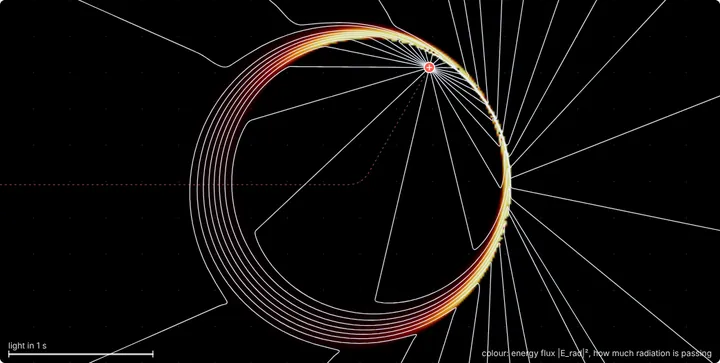
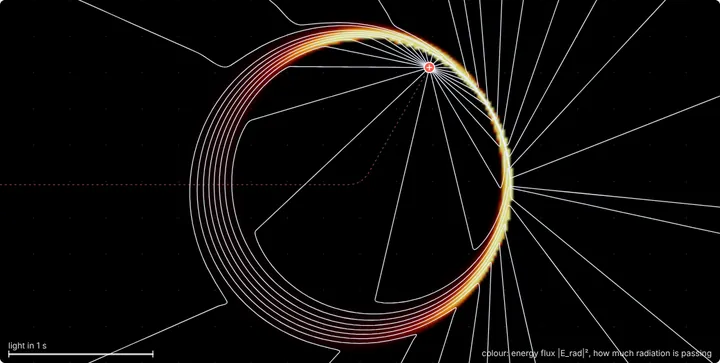
Radiation: the energy flux without stray dark cells, and typed values kept below c
- The energy-flux colour (synchrotron, deflection, nothing along the axis) sampled |E_rad|^2 at
  each cell's centre.  A synchrotron's flash changes sign within a cell, and the zero between
  its lobes, a line far thinner than a cell, showed as black dots scattered along the bright
  spiral wherever a centre fell near it (they were in the experiment's picture too).  The
  flux is now sampled at the cells' corners and averaged over each cell's four, which is what
  a cell should show; the signed field is still sampled at the centres.  Pictures of the
  three flux experiments remade.
- A preset's speed typed past the slider's end was taken as it was: beta = 1.5 gave a charge
  faster than light, gamma = -, P/P_Larmor = 0.64 and field lines that stopped at once.  Speeds
  are now kept at or below 0.98 c, times and lengths positive, c between 0.05 and 1000 units/s,
  the number of lines at most 200 (a typed 1e9 would have hung the page), from the sliders and
  from the address alike.
- Experiment 1: the charge stops 10 units from where it began (it did not coast 10 units).

Claude-Session: https://claude.ai/code/session_01Uf588EmEoW67UxQKckEGyR

diff --git a/radiation/app.js b/radiation/app.js
@@ -146,32 +146,47 @@ function viewHalfDiagonal() { return Math.hypot(view.W, view.H) / 2 / view.s; }
 // ------------------------------------------------------------------ the field picture
 
 const mapCanvas = document.createElement('canvas');
-let mapCell = 4, mapMs = [], mapVals = new Float32Array(0), mapImg = null;
+let mapCell = 4, mapMs = [], mapVals = new Float32Array(0), mapImg = null, samples = new Float32Array(0);
 
-/** The radiation field on a coarse grid over the view. */
+/**
+ * The radiation field on a coarse grid over the view.  The signed field is sampled at the centre
+ * of each cell.  The energy flux is sampled at the cells' corners and averaged over each cell's
+ * four: a sharp pulse (a synchrotron's flash) changes sign within a cell, and the zero of
+ * |E_rad|² between its lobes, a line much thinner than a cell, would otherwise show as scattered
+ * dark cells wherever a centre happened to fall near it.
+ */
 function computeMap(t) {
   const gw = Math.max(8, Math.ceil(view.W / mapCell)), gh = Math.max(8, Math.ceil(view.H / mapCell));
   if (mapVals.length !== gw * gh) { mapVals = new Float32Array(gw * gh); mapImg = new ImageData(gw, gh); mapCanvas.width = gw; mapCanvas.height = gh; }
+  const flux = state.map === 'flux', sw = flux ? gw + 1 : gw, sh = flux ? gh + 1 : gh, off = flux ? 0 : 0.5;
+  const S = flux ? (samples.length === sw * sh ? samples : (samples = new Float32Array(sw * sh))) : mapVals;
   const [x0, x1, y0, y1] = viewBox(), dx = (x1 - x0) / gw, dy = (y1 - y0) / gh;
   let rowGuess = NaN;
   const t0 = performance.now();
   // If the charge never accelerated in all its stored past, there is no radiation anywhere.
   const quiet = traj.activity(traj.tStart, t)[0] <= 1e-6 * state.c * state.c;
-  if (quiet) mapVals.fill(0);
+  if (quiet) S.fill(0);
   // The retarded time to within a time in which light goes a tenth of a pixel (the field lines
-  // ask for far more); each guess carried on from the cell before (to first order).
+  // ask for far more); each guess carried on from the point before (to first order).
   mapLW.c = state.c; mapLW.atol = 0.1 / (view.s * state.c);
   const f = mapLW;
-  for (let j = 0; j < (quiet ? 0 : gh); j++) {
-    const y = y1 - (j + 0.5) * dy;
+  for (let j = 0; j < (quiet ? 0 : sh); j++) {
+    const y = y1 - (j + off) * dy;
     let guess = rowGuess;
-    for (let i = 0; i < gw; i++) {
-      const x = x0 + (i + 0.5) * dx;
+    for (let i = 0; i < sw; i++) {
+      const x = x0 + (i + off) * dx;
       f.field(x, y, 0, t, guess);
       guess = f.predict(x + dx, y);
       if (i === 0) rowGuess = f.predict(x, y - dy);
       // E_rad is perpendicular to n: in the plane, E_rad = E⊥ (ẑ × n).  E⊥ > 0 is anticlockwise.
-      mapVals[j * gw + i] = f.eay * f.nx - f.eax * f.ny;
+      S[j * sw + i] = f.eay * f.nx - f.eax * f.ny;
+    }
+  }
+  // The flux: the root mean square of the four corners (the colour squares it again).
+  if (flux) {
+    for (let j = 0; j < gh; j++) for (let i = 0; i < gw; i++) {
+      const a = S[j * sw + i], b = S[j * sw + i + 1], c = S[(j + 1) * sw + i], e = S[(j + 1) * sw + i + 1];
+      mapVals[j * gw + i] = Math.sqrt(0.25 * (a * a + b * b + c * c + e * e));
     }
   }
   // Keep this under about 10 ms a frame: coarser cells if it is slow, finer if fast.
@@ -187,7 +202,7 @@ function computeMap(t) {
   for (let o = 0; o < gw * gh; o++) {
     const v = mapVals[o] * gain;
     let r, g, b;
-    if (state.map === 'flux') {
+    if (flux) {
       const a = Math.tanh(v * v);
       r = 255 * Math.min(1, 1.6 * a); g = 255 * Math.max(0, Math.min(1, 1.6 * a - 0.55)); b = 255 * Math.max(0, 2.2 * a - 1.6);
       r *= 0.85; g *= 0.85; b *= 0.85;
@@ -672,6 +687,11 @@ for (const id of ORDER) {
   presetButtons[id] = b;
 }
 
+/** A typed value may go past a slider's end, but not where the motion makes no sense: a speed
+ *  at or over c, a time or a length of zero or less. */
+const LIMITS = { beta: [0, BETA_MAX], tau: [0.005, 20], dist: [0.1, 200], rest: [0, 60], period: [0.05, 60], radius: [0.05, 100], angle: [0, 360], alpha: [0.01, 100] };
+function clampParam(k, v) { const L = LIMITS[k]; return L ? Math.max(L[0], Math.min(L[1], v)) : v; }
+
 let shownParams;
 function showParams(id) {
   shownParams = id;
@@ -680,11 +700,16 @@ function showParams(id) {
   $('#typed').hidden = id !== 'typed';
   if (!id || id === 'typed') return;
   for (const [k, p] of Object.entries(PRESETS[id].params)) {
-    box.append(slider({
+    const s = slider({
       label: p.label, min: p.min, max: p.max, log: p.log, value: values[id][k], title: p.title,
       // A one-shot motion starts again with the new value; a steady one carries on.
-      onInput: (v) => { values[id][k] = v; startMotion(id, { restart: motion.end !== undefined }); },
-    }));
+      onInput: (v) => {
+        values[id][k] = clampParam(k, v);
+        if (values[id][k] !== v) s.value = values[id][k];
+        startMotion(id, { restart: motion.end !== undefined });
+      },
+    });
+    box.append(s);
   }
 }
 
@@ -734,7 +759,7 @@ const cSlider = slider({
   label: 'c (units/s)', min: 1, max: 30, log: true, value: state.c,
   title: 'The speed of light, in units per second (the view is 20 units across its shorter side)',
   onInput: (v) => {
-    state.c = v;
+    state.c = v = Math.max(0.05, Math.min(1000, v));
     if (mode !== 'hand') startMotion(state.preset);
     else {
       // Slower light might now be slower than the charge: start again from rest.
@@ -754,7 +779,7 @@ const linesSeg = segmented([
   { value: 'off', label: 'None' },
 ], state.lines, (v) => { state.lines = v; dirty = true; saveHash(); }, { label: 'Field lines' });
 $('#lines-box').append(linesSeg);
-const countSlider = slider({ label: 'lines', min: 4, max: 64, step: 1, value: state.count, onInput: (v) => { state.count = Math.round(v); dirty = true; saveHash(); } });
+const countSlider = slider({ label: 'lines', min: 4, max: 64, step: 1, value: state.count, onInput: (v) => { state.count = Math.max(1, Math.min(200, Math.round(v))); dirty = true; saveHash(); } });
 $('#count-box').append(countSlider);
 const mapSeg = segmented([
   { value: 'off', label: 'No colour' },
@@ -762,7 +787,7 @@ const mapSeg = segmented([
   { value: 'flux', label: 'Energy flux', title: '|E_rad|², proportional to the radiated energy flowing past' },
 ], state.map, (v) => { state.map = v; dirty = true; saveHash(); }, { label: 'Colour' });
 $('#map-box').append(mapSeg);
-const brightSlider = slider({ label: 'brightness', min: -2, max: 2, step: 0.01, value: state.bright, title: 'The colour map\'s gain, in powers of ten', onInput: (v) => { state.bright = v; dirty = true; saveHash(); } });
+const brightSlider = slider({ label: 'brightness', min: -2, max: 2, step: 0.01, value: state.bright, title: 'The colour map\'s gain, in powers of ten', onInput: (v) => { state.bright = Math.max(-6, Math.min(6, v)); dirty = true; saveHash(); } });
 $('#bright-box').append(brightSlider);
 const extras = {
   trail: toggle('Path', state.trail, (on) => { state.trail = on; dirty = true; saveHash(); }, 'The charge\'s path over the last 4 seconds'),
@@ -789,11 +814,11 @@ function saveHash() {
 
 function fromHash(h) {
   if (!PRESETS[h.m] && h.m !== 'typed') return false;
-  if (+h.c > 0) { state.c = +h.c; cSlider.value = state.c; }
+  if (+h.c > 0) { state.c = Math.max(0.05, Math.min(1000, +h.c)); cSlider.value = state.c; }
   if (['total', 'velocity', 'off'].includes(h.lines)) { state.lines = h.lines; linesSeg.value = h.lines; }
-  if (+h.n >= 1) { state.count = Math.round(+h.n); countSlider.value = state.count; }
+  if (+h.n >= 1) { state.count = Math.min(200, Math.round(+h.n)); countSlider.value = state.count; }
   if (['off', 'field', 'flux'].includes(h.map)) { state.map = h.map; mapSeg.value = h.map; }
-  if (Number.isFinite(+h.b)) { state.bright = +h.b; brightSlider.value = state.bright; }
+  if (Number.isFinite(+h.b)) { state.bright = Math.max(-6, Math.min(6, +h.b)); brightSlider.value = state.bright; }
   setExtras({ trail: h.trail !== '0', fronts: h.fronts === '1', probe: !!h.probe });
   if (h.probe) { const p = h.probe.split(',').map(Number); if (p.length === 2 && p.every(Number.isFinite)) state.probeAt = p; }
   if (h.m === 'typed') {
@@ -802,7 +827,7 @@ function fromHash(h) {
     yOpts.reserved = ['c', ...typedX.expr.parameters];
     typedY.set(h.y ?? TYPED.y, p, false);
   } else {
-    for (const k of Object.keys(values[h.m])) if (Number.isFinite(+h['p_' + k]) && h['p_' + k] !== undefined) values[h.m][k] = +h['p_' + k];
+    for (const k of Object.keys(values[h.m])) if (Number.isFinite(+h['p_' + k]) && h['p_' + k] !== undefined) values[h.m][k] = clampParam(k, +h['p_' + k]);
   }
   shownParams = undefined;   // the values changed under the sliders
   startMotion(h.m);
@@ -869,7 +894,7 @@ requestAnimationFrame(frame);
 window.__app = {
   state, setups, traj, values,
   get mode() { return mode; }, get lines() { return lines; }, get lineEvals() { return lineEvals; },
-  get frameMs() { return lastFrameMs; }, timing, get mapCell() { return mapCell; }, get probe() { return probeInfo; },
+  get frameMs() { return lastFrameMs; }, timing, get mapCell() { return mapCell; }, get mapVals() { return mapVals; }, get probe() { return probeInfo; },
   get powerLog() { return powerLog; }, canvasLabels,
   startMotion, setRunning, grab,
   setProbe(x, y) { state.probeAt = [x, y]; probeHist.length = 0; dirty = true; },

diff --git a/radiation/index.html b/radiation/index.html
@@ -80,7 +80,7 @@
   <article class="exp" data-setup="kink" data-frame="720x363">
     <h3>1. Start and stop: the kink is the radiation</h3>
     <p>The opening set-up.  The charge waits a second, speeds up to $\beta=v/c=0.6$ in 0.15 s,
-    coasts 10 units, stops in 0.15 s, waits, and comes back.  Each change of speed sends a
+    coasts, stops in 0.15 s 10 units from where it began, waits, and comes back.  Each change of speed sends a
     shell out at $c$ (the ring of orange and blue: watch it grow by one scale bar a second).
     Inside the shell, the lines are those of the charge as it moves now.  Outside, nothing has
     heard yet: the lines still point from where the charge would be had it kept its old

diff --git a/tests/ui/radiation.py b/tests/ui/radiation.py
@@ -214,6 +214,22 @@ def circles(b):
         lo, hi = (mid, hi) if f(mid) > 0 else (lo, mid)
     check(abs(half - lo) < 2e-4 and abs(zero - math.acos(be)) < 2e-4,
           f'synchrotron beam: half power {half:.4f} rad either side of v (exact {lo:.4f}), none at {zero:.4f} = arccos β (1/γ = {1 / gamma(be):.3f})')
+    # The energy flux of the flash, drawn on cells: no cell inside the bright spiral is dark (the
+    # zero of |E_rad|² between the flash's lobes is far thinner than a cell; sampled at the
+    # cells' centres it showed as scattered black cells).
+    b.eval("__app.state.lines = 'off'"); run_for(b, 0.3); b.eval('__app.setRunning(false)'); b.sleep(0.3)
+    spots = b.eval("""(() => { const cv = document.querySelector('#field'), W = cv.width, H = cv.height, d = cv.getContext('2d').getImageData(0, 0, W, H).data;
+        const lum = (x, y) => { const o = 4 * (y * W + x); return d[o] + d[o + 1] + d[o + 2]; };
+        let n = 0, bright = 0; for (let y = 8; y < H - 40; y++) for (let x = 8; x < W - 8; x++) { if (lum(x, y) > 500) bright++;
+          if (lum(x, y) < 150 && lum(x - 6, y) > 500 && lum(x + 6, y) > 500 && lum(x, y - 6) > 500 && lum(x, y + 6) > 500) n++; }
+        return [n, bright]; })()""")
+    check(spots[0] == 0 and spots[1] > 1000, f'synchrotron flux: no dark spots inside the bright spiral ({spots[0]} pixels; {spots[1]} bright)')
+    b.eval("__app.state.lines = 'total'; __app.setRunning(true)")
+    # A typed speed past the slider's end, even past c: the charge stays below c.
+    b.eval("(() => { const s = document.querySelector('#params input[type=number]'); s.value = 1.5; s.dispatchEvent(new Event('change')); })()")
+    run_for(b, 0.4)
+    q = charge(b)
+    check(b.eval('__app.values.circle.beta') == 0.98 and math.hypot(q['vx'], q['vy']) / q['c'] < 0.981, f"typing β = 1.5 gives β = {b.eval('__app.values.circle.beta')}, below c")
 
 def hyperbolic(b):
     # Constant Liénard power (2/3) g²/c³ while the proper acceleration lasts (t = 2.9 to 5 s).
